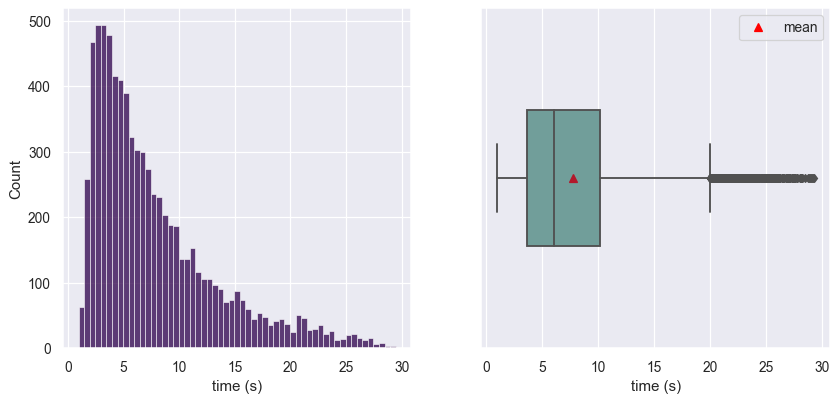
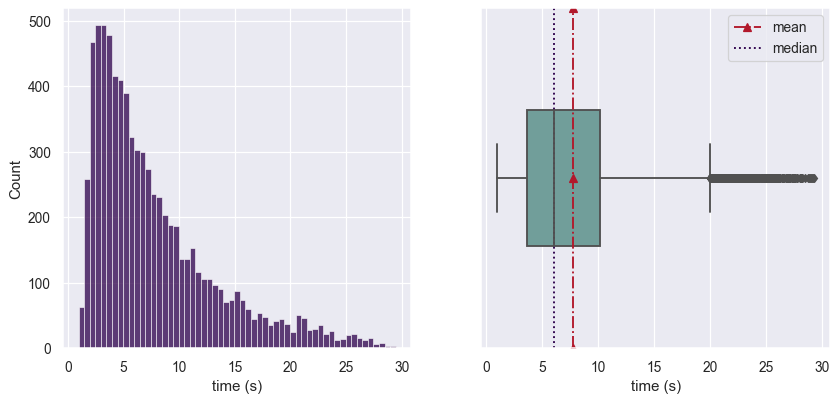
added figures and the analysis models

Changed region(s): [[0.8687, 0.0597, 0.9928, 0.1493]]

diff --git a/writing/01_thesis/content/methodology.tex b/writing/01_thesis/content/methodology.tex
@@ -14,13 +14,15 @@ Due to the Covid-19 pandemic sessions were conducted according to the laboratory
 
 \subsection{City}
 
-This study is conducted in a virtual reality (VR) city with an area of about 1 km\textsuperscript2. The city is consisted of 284 buildings. 56 buildings are used in the experimental task of this study from which 4 are global landmarks, 26 are {\emphasize context meaningful} locations, e.g., shops, construction sites, and 26 are residential, {\emphasize not context meaningful} buildings. These 56 buildings have human agents in front of them and an artwork on one of their walls. Human agents belonging to the shops take the pose of an act according to the functionality of that store {\emphasize(meaningful)}, e.g., has a book in the hand in front of a bookstore, or are just standing in front of the residential building {\emphasize(standing human agent)}. The artworks on the shops are also depicting the functionality of the shop.\\
-A sun with a detectable origin is avoided in the city, no street is named and no building is numbered to implicitly direct the participants to prioritize their spatial learning. 
+This study is conducted in a virtual reality (VR) city with an area of about 1 km\textsuperscript2. The city (see figure \ref{fig:city}) is consisted of 284 buildings. 56 buildings are used in the experimental task of this study from which 4 are global landmarks, 26 are {\emphasize context meaningful} locations, e.g., shops, construction sites, and 26 are residential, {\emphasize not context meaningful} buildings. These 56 buildings have human agents in front of them and an artwork on one of their walls. Human agents belonging to the shops take the pose of an act according to the functionality of that store {\emphasize(meaningful)} (see figure \ref{fig:target_photos_a}), e.g., has a book in the hand in front of a bookstore, or are just standing in front of the residential building {\emphasize(standing human agent)} (see figure \ref{fig:target_photos_c}). The artworks on the shops are also depicting the functionality of the shop.\\
+A sun with a detectable origin is avoided in the city, no street is named and no building is numbered to implicitly direct the participants to prioritize their spatial learning. Furthermore, there are borders around the city so that the participants cannot exit the city area.
 
-\todo{
-	- FIG: include a map \\
-	- include photos of the city
-}
+\begin{figure}[h]
+	\centering
+	\includegraphics[width=100mm]{figures/city.jpg}
+	\caption[The virtual city]{the virtual city}
+	\label{fig:city}
+\end{figure}
 
 \subsection{Application and Technology}
 
@@ -59,20 +61,24 @@ Testing was a pointing task comprised 336 trials performed from 28 different sta
 	\begin{subfigure}[b]{0.48\linewidth}
 		\includegraphics[width=\linewidth]{figures/45_S(green store)_A.PNG}
 		\caption{CmA}
+		\label{fig:target_photos_a}
 	\end{subfigure}
 	\begin{subfigure}[b]{0.48\linewidth}
 		\includegraphics[width=\linewidth]{figures/45_S(green store)_noA.PNG}
 		\caption{CmANo}
+		\label{fig:target_photos_b}
 	\end{subfigure}
 	
 	
 	\begin{subfigure}[b]{0.48\linewidth}
 		\includegraphics[width=\linewidth]{figures/44_Sa.PNG}
 		\caption{Sa}
+		\label{fig:target_photos_c}
 	\end{subfigure}
 	\begin{subfigure}[b]{0.48\linewidth}
 		\includegraphics[width=\linewidth]{figures/44_SaNo.PNG}
 		\caption{SaNo}
+		\label{fig:target_photos_d}
 	\end{subfigure}
 	
 
@@ -87,13 +93,16 @@ Testing was a pointing task comprised 336 trials performed from 28 different sta
 \end{figure}
 
 
-At each starting location the 12 consecutive trials were performed. Before each trial begin a green circular loading bar {\emphasize (Go cue)} was shown in the middle of the screen for 25ms. As soon as the bar was complete, a beep sound was played informing the participants of the start of a new trial. In each trial a photo of one of the task buildings, with or without human agent in front of it (see figure \ref{fig:target_photos}), was presented at the top center of the screen \todo{(see figure X)}. The participants had the option to press the trigger button to bring the picture to the middle of the screen \todo{(see figure X)}. As soon as the button was released the photo moved back to the upper center part of the screen. Since there was no visual virtual body, there was a green dashed laser beam \todo{(see figure X)} attached to the virtual hand of the participants that moved as they moved their hand. The purpose of the laser beam was to assist the participants with the visualization of the direction they are pointing at. The maximum duration of each trial was 30 seconds. If there was no answer given to the task after 20 seconds from the start of the trial, i.e., no direction was selected by the participant indicating in which direction the target building is located from their current location, a countdown timer appeared on the bottom center of the screen \todo{(see figure X)} and terminated the trial after 10 seconds if there was still no answer given. \\
+At each starting location the 12 consecutive trials were performed. Before each trial begin a green circular loading bar {\emphasize (Go cue)} was shown in the middle of the screen for 25ms. As soon as the bar was complete, a beep sound was played informing the participants of the start of a new trial. In each trial a photo of one of the task buildings, with or without human agent in front of it (see figure \ref{fig:target_photos}), was presented at the top center of the screen \todo{(see figure X)}. The participants had the option to press the trigger button to bring the picture to the middle of the screen \todo{(see figure X)}. As soon as the button was released the photo moved back to the upper center part of the screen. Since there was no visual virtual body, there was a green dashed laser beam \todo{(see figure X)} attached to the virtual hand of the participants that moved as they moved their hand. The purpose of the laser beam was to assist the participants with the visualization of the direction they are pointing at. The maximum duration of each trial was 30 seconds. If there was no answer given to the task after 20 seconds from the start of the trial, i.e., no direction was selected by the participant indicating in which direction the target building is located from their current location, a countdown timer appeared on the bottom center of the screen (see figure \ref{fig:timer}) and terminated the trial after 10 seconds if there was still no answer given. \\
 
-Selecting an answer for the task, i.e., selecting the direction of the target building was possible with a button press. With once pressing the button it locked the laser beam onto a direction and detached it from the hand \todo{maybe a figure of the controller with the info?}. The participants had the option to either confirm the chosen direction with the same button or cancel it with another. Moving on to the next trial was the result of either the participant confirming a direction or by running out of time. Behavioral and technical data, e.g., the chosen direction, participant position and rotation, reaction times were gathered during each trial. The human agents were present during the testing in the city at their exact designated positions and poses in the exploration sessions. A gray screen fade out and fade in occurred while transporting the participants from their current location to another starting location. This was to serve the purpose of decreasing the chance of motion sickness and also avoiding leaking environmental information while moving in the city.
+\begin{figure}[h]
+	\centering
+	\includegraphics[width=100mm]{figures/timer.jpg}
+	\caption[The countdown timer]{the countdown timer appears at the bottom of the screen after 20s has passed from the trial}
+	\label{fig:timer}
+\end{figure}
 
-\todo{
-	- include photo of the trial  \\
-}
+Selecting an answer for the task, i.e., selecting the direction of the target building was possible with a button press. With once pressing the button it locked the laser beam onto a direction and detached it from the hand. The participants had the option to either confirm the chosen direction with the same button or cancel it with another. Moving on to the next trial was the result of either the participant confirming a direction or by running out of time. Behavioral and technical data, e.g., the chosen direction, participant position and rotation, reaction times were gathered during each trial. The human agents were present during the testing in the city at their exact designated positions and poses in the exploration sessions. A gray screen fade out and fade in occurred while transporting the participants from their current location to another starting location. This was to serve the purpose of decreasing the chance of motion sickness and also avoiding leaking environmental information while moving in the city.
 
 
 \section{Analysis method}
@@ -109,7 +118,7 @@ Different functions of pandas {\emphasize (pd)} and numpy {\emphasize (np)} used
 The main preprocessing steps are as follow:
 
 \begin{enumerate}
-	\item Removed trials in which the participants did not select any direction. These were the trials that were terminated due to timeout. Hence, only the trials where their respective TimeOut variable was False were kept for the analysis. \\
+	\item Removed trials in which the participants did not select any direction. These were the trials that were terminated due to timeout. Hence, only the trials where their respective TimeOut variable was False were kept for the analysis. a total of \todo{number of removed trials} trials were removed. \\
 	
 	\item Calculated the participant's chosen direction's absolute angular deviation from the actual location of the target building.
 	
@@ -178,35 +187,7 @@ The main preprocessing steps are as follow:
 
 
 \subsection{Analysis}
-Due to the hierarchical structure of the data, Linear Mixed Models (LMM) were chosen as the method of analysis. For that the python's statmodels module were used.
-
-\subsubsection{Dependent variables}
-
-\begin{enumerate}
-	\item \textbf{Absolute angular deviation} {\emphasize (absolute\_180\_angles)}: the absolute value of the angular deviation of the direction chosen by the participant from the actual location of the target building shown at each trial. This variable has the mean of 48.08 with the standard deviation of 44.30, and median of 33.70. (See figure \ref{fig:angular_dev_dists})
-	
-	
-	\begin{figure}[h]
-		\centering
-		\includegraphics[width=150mm]{figures/angular_deviation_hist_box_23.png}
-		\caption[Distribution of the absolute angular deviation]{distribution of the absolute angular deviation}
-		\label{fig:angular_dev_dists}
-	\end{figure}
-
-	\item \textbf{Reaction times} {\emphasize (RT)}: this variable stores the duration between start of each trial and the time the participants confirmed a direction as their respond. The begin timestamp of the trial is directly after the go cue is completed and the end timestamp instantly after the response is given. Calculating the duration is done in unity. This variable has the mean of 7.77 with the standard deviation of 5.56, and median of 6.06. (See figure \ref{fig:rt_dists})
-	
-	\begin{align*}
-		RT = end\_timestamp - begin\_timestamp
-	\end{align*}
-
-	\begin{figure}[h]
-	\centering
-	\includegraphics[width=150mm]{figures/RT_hist_box_23.png}
-	\caption[Distribution of reaction times]{distribution of the  reaction times in the pointing task}
-	\label{fig:rt_dists}
-\end{figure}
-
-\end{enumerate}
+Due to the hierarchical structure of the data, Linear Mixed Models (LMM) were chosen as the method of analysis. For that the MixedLM function \footnote{Statsmodels function for linear mixed effects model: \\ \href{https://www.statsmodels.org/dev/generated/statsmodels.regression.mixed\_linear\_model.MixedLM.html}{https://www.statsmodels.org/dev/generated/statsmodels.regression.mixed\_linear\_model.MixedLM.html}} from python's statmodels module were used. Participants' ID is the grouping component of all the models.
 
 \subsubsection{Independent variables}
 
@@ -215,4 +196,51 @@ Due to the hierarchical structure of the data, Linear Mixed Models (LMM) were ch
 	
 	\item \textbf{Distance to the target:} this variable is the distance of the participant to the target building at each starting location.
 \end{enumerate}
+
+\subsubsection{Dependent variables}
+
+\begin{enumerate}
+	\item \textbf{Absolute angular deviation} {\emphasize (absolute\_180\_angles)}: the absolute value of the angular deviation of the direction chosen by the participant from the actual location of the target building shown at each trial. Two models are used to predict this dependent variable. \\
+	
+	\begin{enumerate}
+		\item
+		\begin{align*}
+			absolute \; angular \; error \sim starting \; locations
+		\end{align*}
+	
+		\item 
+		\begin{align*}
+			absolute \; angular \; error \sim &starting \; locations + distance \; to \; target \\
+			+ &starting \; locations \; : \; distance \; to \; target
+		\end{align*}
+	\end{enumerate}
+	
+
+	\item \textbf{Reaction times} {\emphasize (RT)}: this variable stores the duration between start of each trial and the time the participants confirmed a direction as their respond. The begin timestamp of the trial is directly after the go cue is completed and the end timestamp instantly after the response is given. Calculating the duration is done in unity. 
+	
+	\begin{align*}
+		RT = end\_timestamp - begin\_timestamp
+	\end{align*}
+
+	 For the analysis two models are used to predict this dependent variable.\\
+	 
+	 
+	 \begin{enumerate}
+	 	\item
+	 	\begin{align*}
+	 		reaction \; times \sim starting \; locations
+	 	\end{align*}
+	 	
+	 	\item 
+	 	\begin{align*}
+	 		reaction \; times \sim &starting \; locations + distance \; to \; target \\
+	 		+ &starting \; locations \; : \; distance \; to \; target
+	 	\end{align*}
+	 \end{enumerate}
+ 
+\end{enumerate}
+
+
+
+
 
